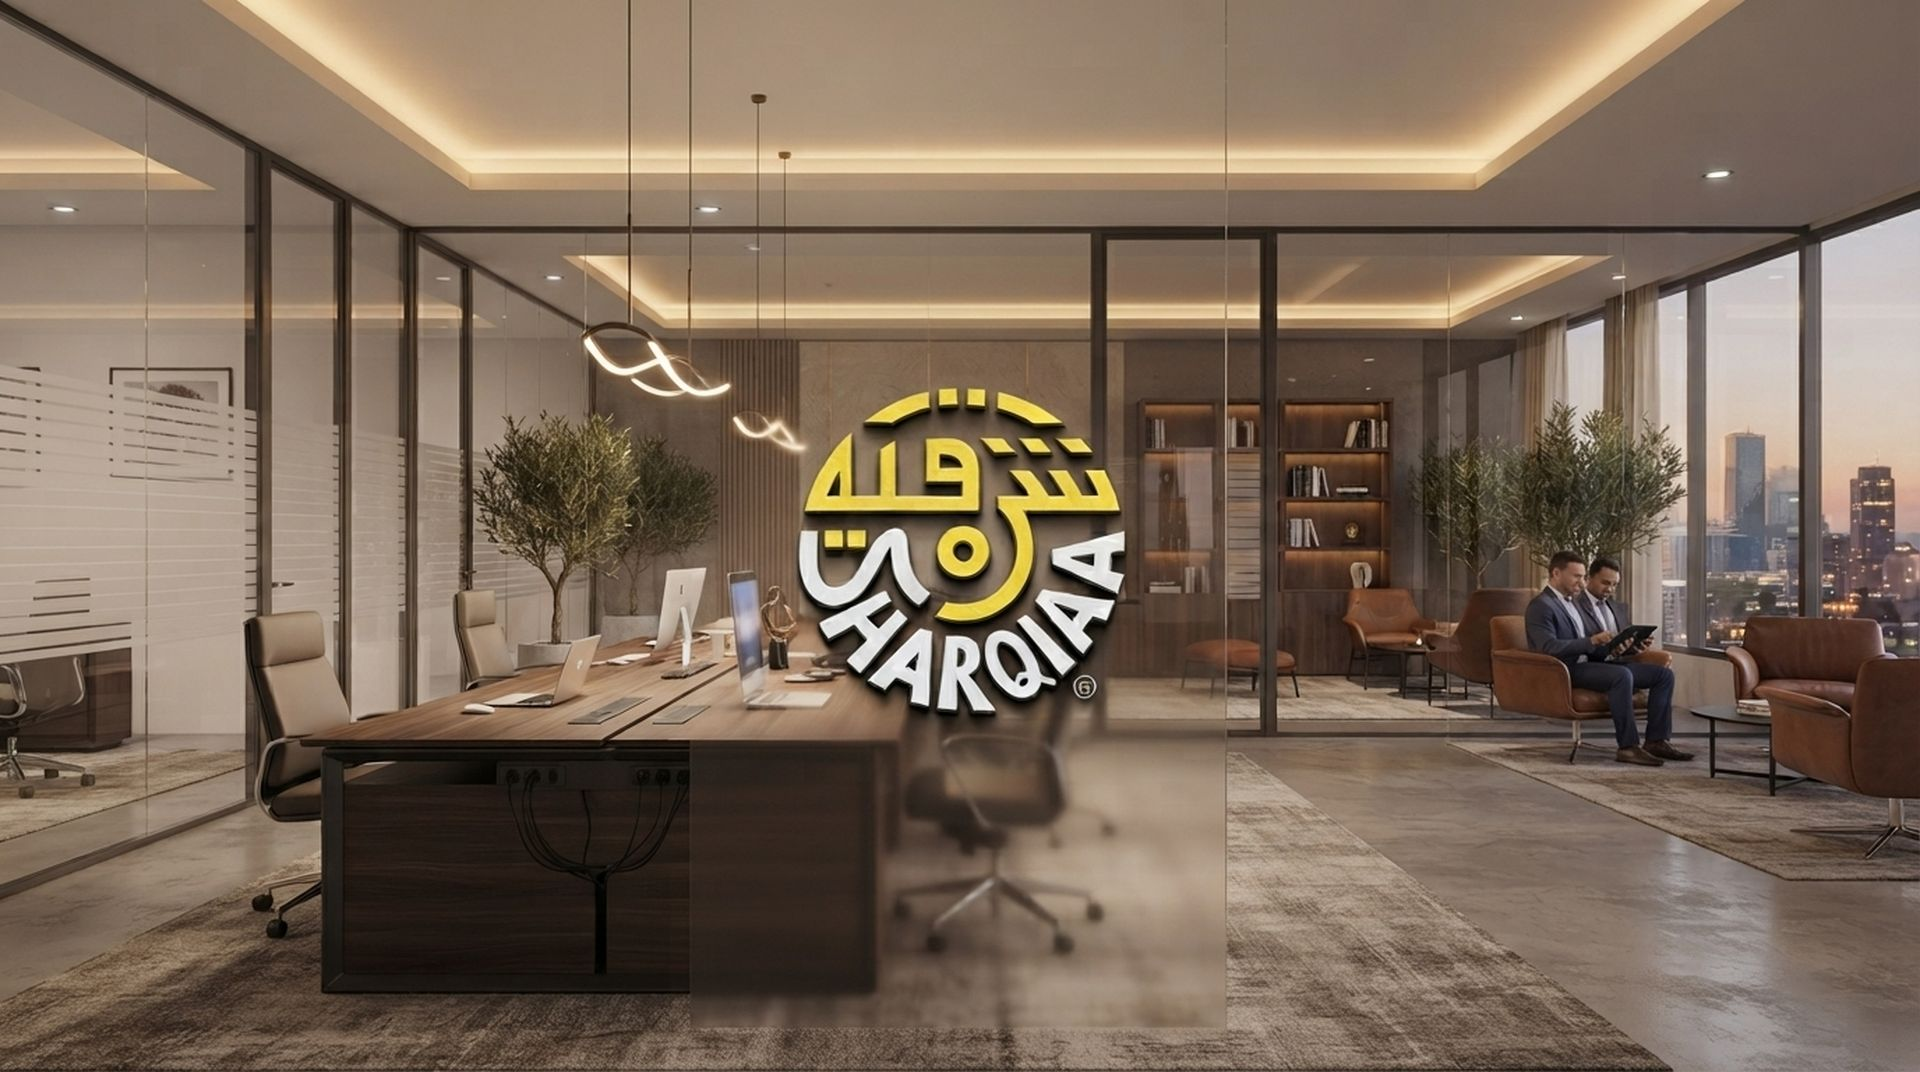
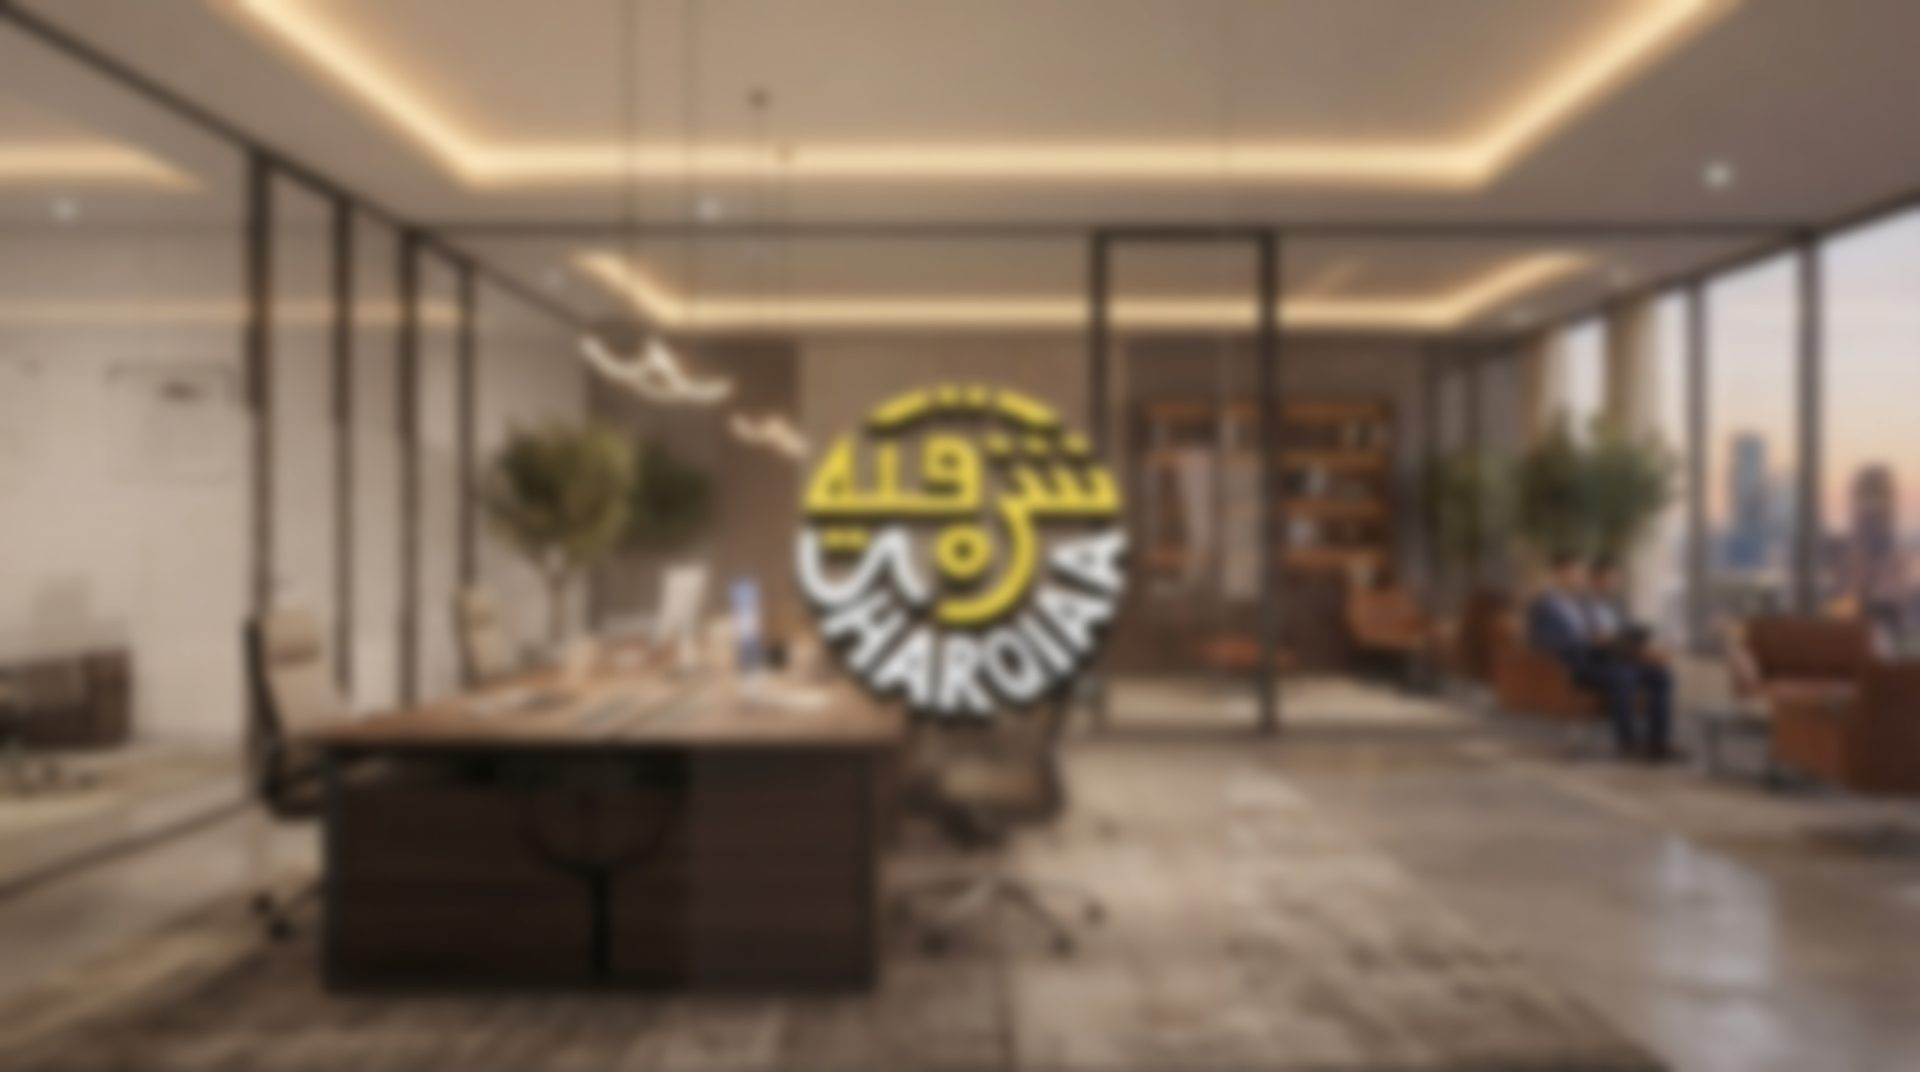
الشعارُ بملفّه لا مطبوعًا في الصورة
الشعارُ الذي يظهر باهتًا وسط الصفحة كان مطبوعًا داخل صورة المكتب نفسِها،
فحوافُّه خشنةٌ ولا يُتحكَّم فيه. طُمست الصورةُ طمسًا ناعمًا فذاب فيها
كضوء، ووُضع الشعارُ الحقيقي علامةً مائيةً من ملفّه — بنسخته الداكنة،
لأنّ الأبيض يختفي على ورقٍ فاتح.

والصورةُ خفّت إلى ١٠٤ كيلوبايت بعد الطمس.

diff --git a/public/join.html b/public/join.html
@@ -69,6 +69,18 @@
   .land::before { content: ""; position: absolute; inset: -40px 40% auto -10%; height: 360px;
     background: radial-gradient(closest-side, rgba(184,145,42,.09), transparent 72%); pointer-events: none; }
   .land > * { position: relative; }
+  /* الشعارُ الحقيقيّ علامةً مائيةً في الافتتاحية — بملفّه لا مطبوعًا في
+     الصورة: حوافُّه نظيفةٌ على كلّ شاشة، ويُكبَّر بلا خشونة. */
+  body.landing .land::after { content: ""; position: absolute; z-index: -1;
+    inset-inline-start: 4%; top: 46%; transform: translateY(-50%);
+    width: min(400px, 42vw); aspect-ratio: 415 / 179;
+    /* النسخةُ الداكنة: الشعارُ الأبيضُ يختفي على ورقٍ فاتح */
+    background: url("/logo-mark-dark.png?v=2") center / contain no-repeat;
+    opacity: .26; pointer-events: none; }
+  @media (max-width: 720px) {
+    body.landing .land::after { inset-inline-start: 50%; transform: translate(-50%, -50%);
+      width: 62vw; opacity: .18; top: 58%; }
+  }
   .eyebrow { display: inline-block; font-size: 11.5px; font-weight: 700; letter-spacing: .10em;
     color: var(--gold); background: var(--gold-tint); border-radius: 99px; padding: 6px 14px; margin-bottom: 20px; }
   /* ⚠ الكتابةُ فوق صورةٍ تحتاج سوادًا لا رماديًّا: الرماديُّ الذي يُقرأ على
